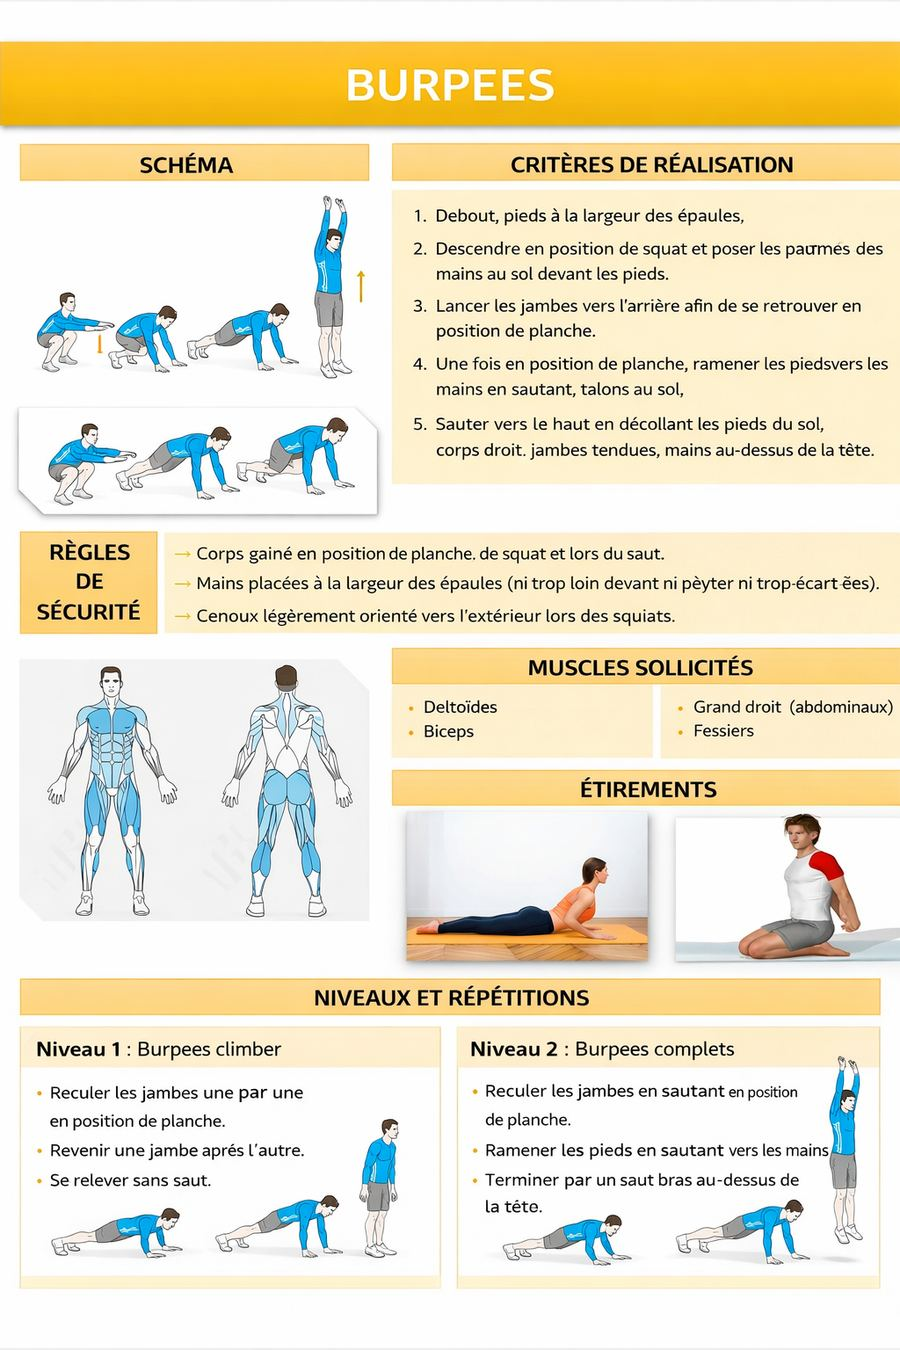
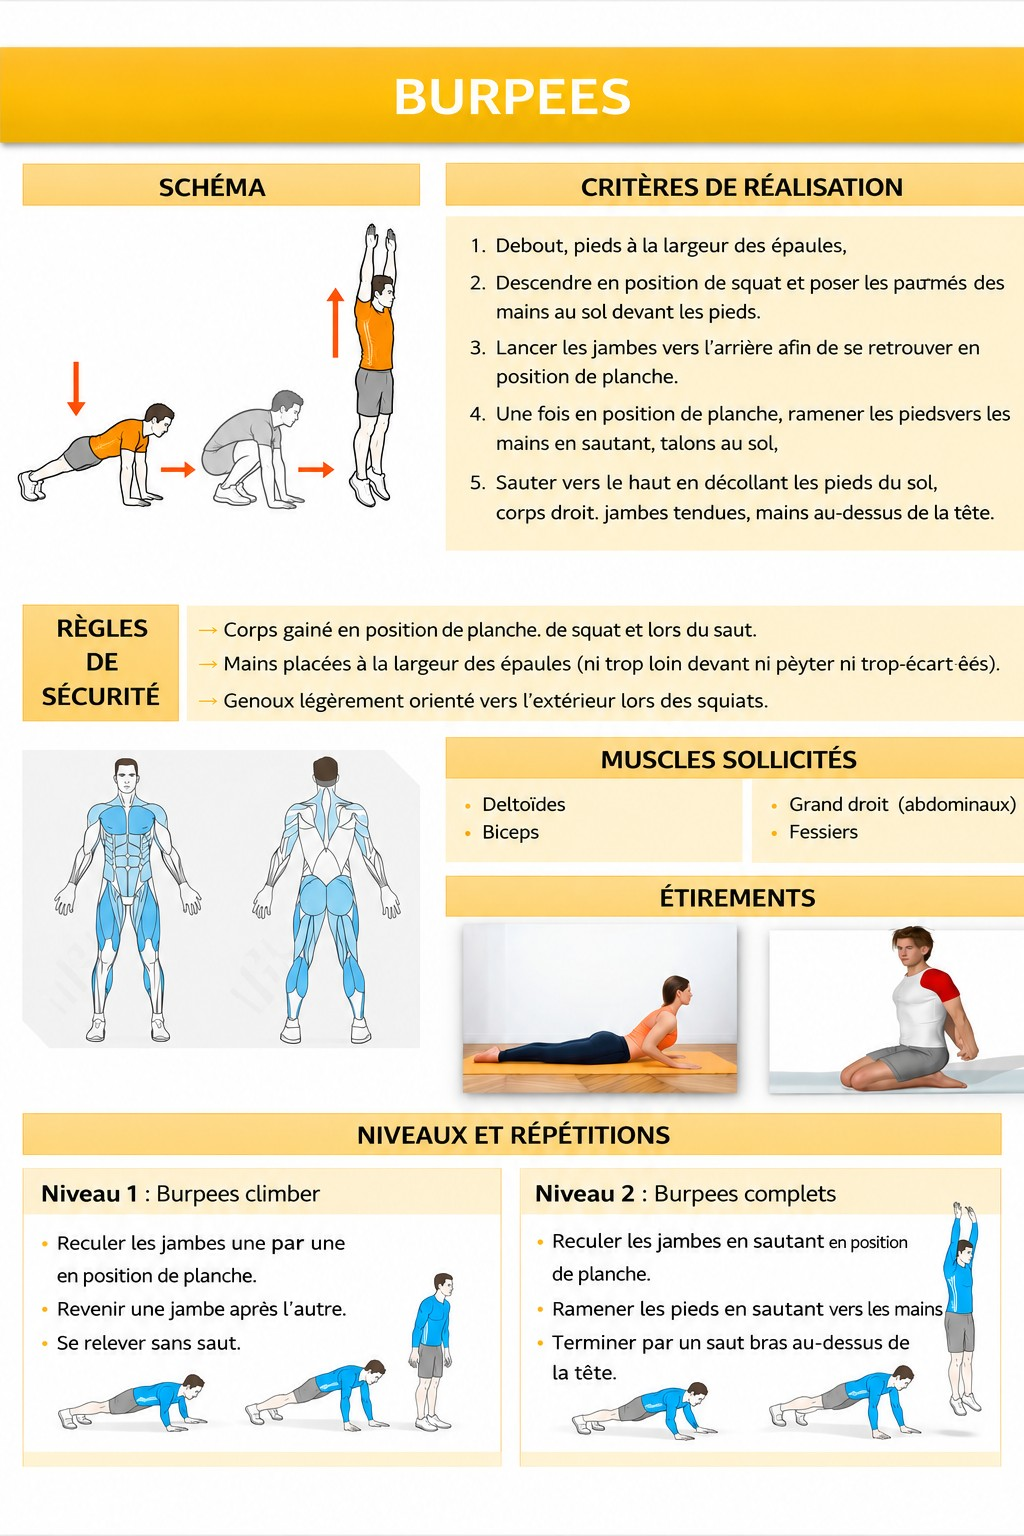
Actualiser le dessin des burpees avec un t-shirt orange

diff --git a/sw.js b/sw.js
@@ -1,6 +1,6 @@
 /* Cross Training v2 — mode hors-ligne (réseau d'abord, sinon cache).
  * Augmenter VERSION à chaque mise en ligne. */
-const VERSION = "crosstraining-v2-2026-11-12a";
+const VERSION = "crosstraining-v2-2026-11-12b";
 const PREFIX = "crosstraining-v2-";
 const FILES = ["./", "index.html", "app.css", "app.js", "data.js", "lib/qrcode.js", "lib/jsQR.js", "manifest.webmanifest", "icons/icon-192.png", "icons/icon-512.png", "icons/apple-touch-icon.png",
   "img/burpees.jpg", "img/crunch.jpg", "img/dips.jpg", "img/fentes.jpg", "img/jumping-jack.jpg", "img/mountain.jpg",
